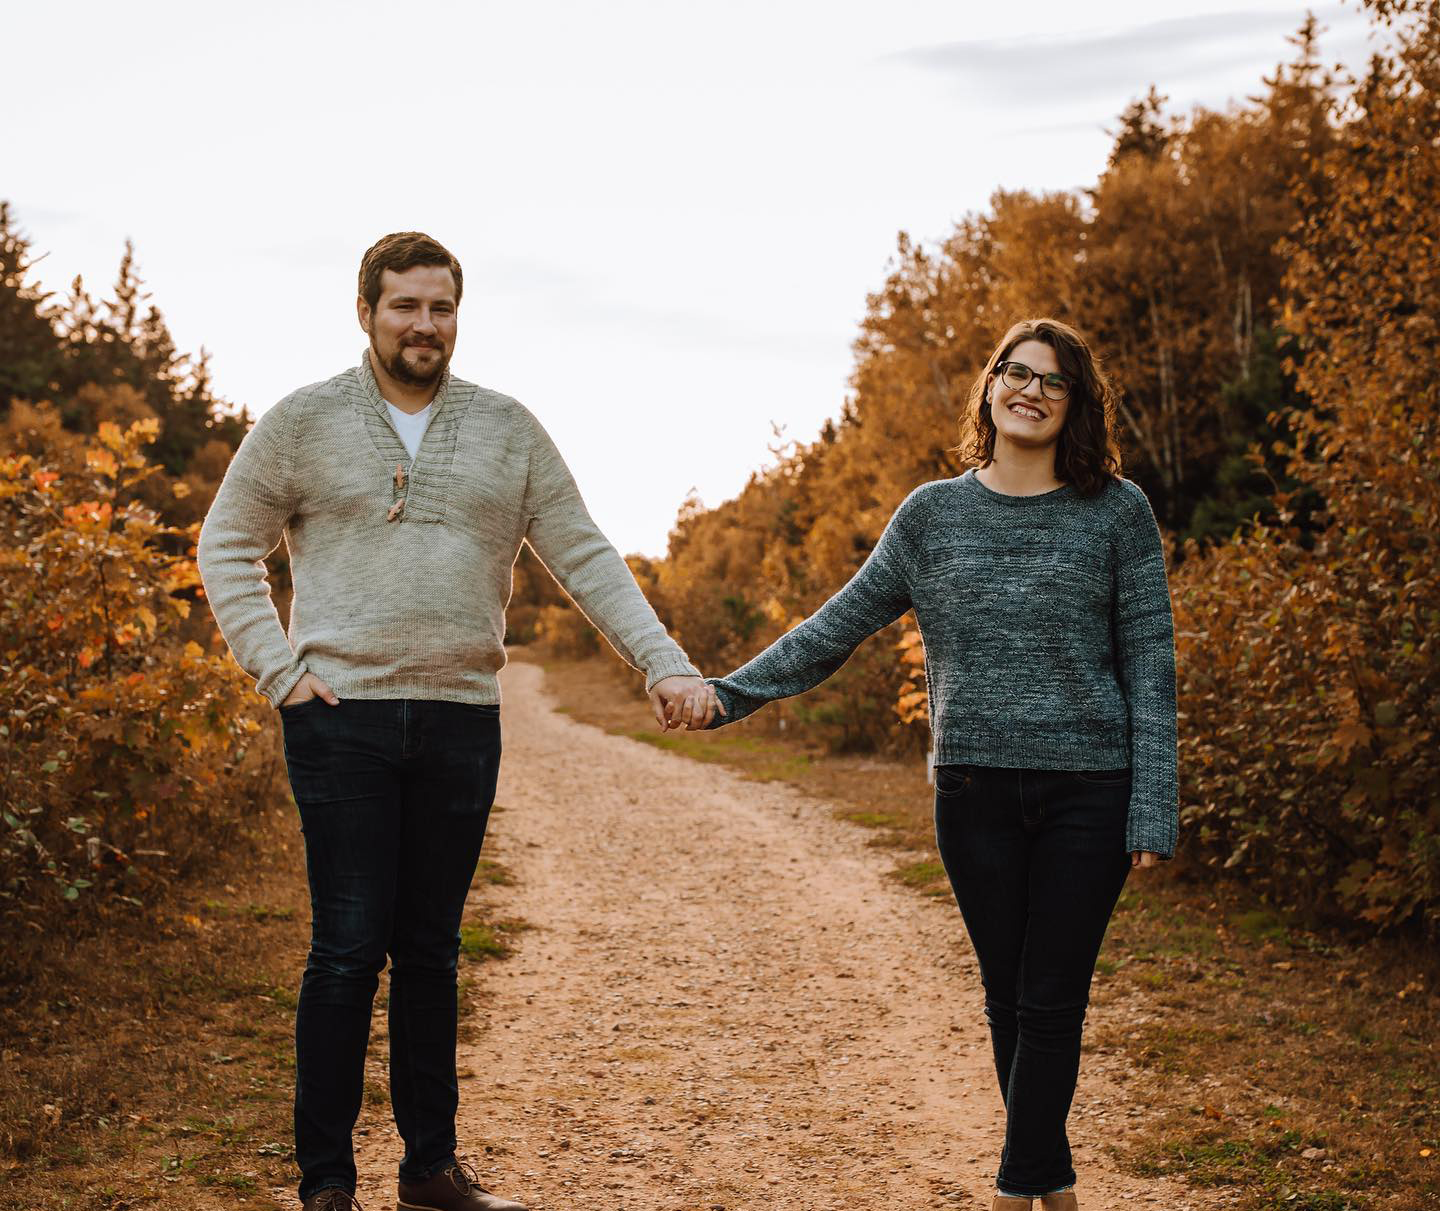
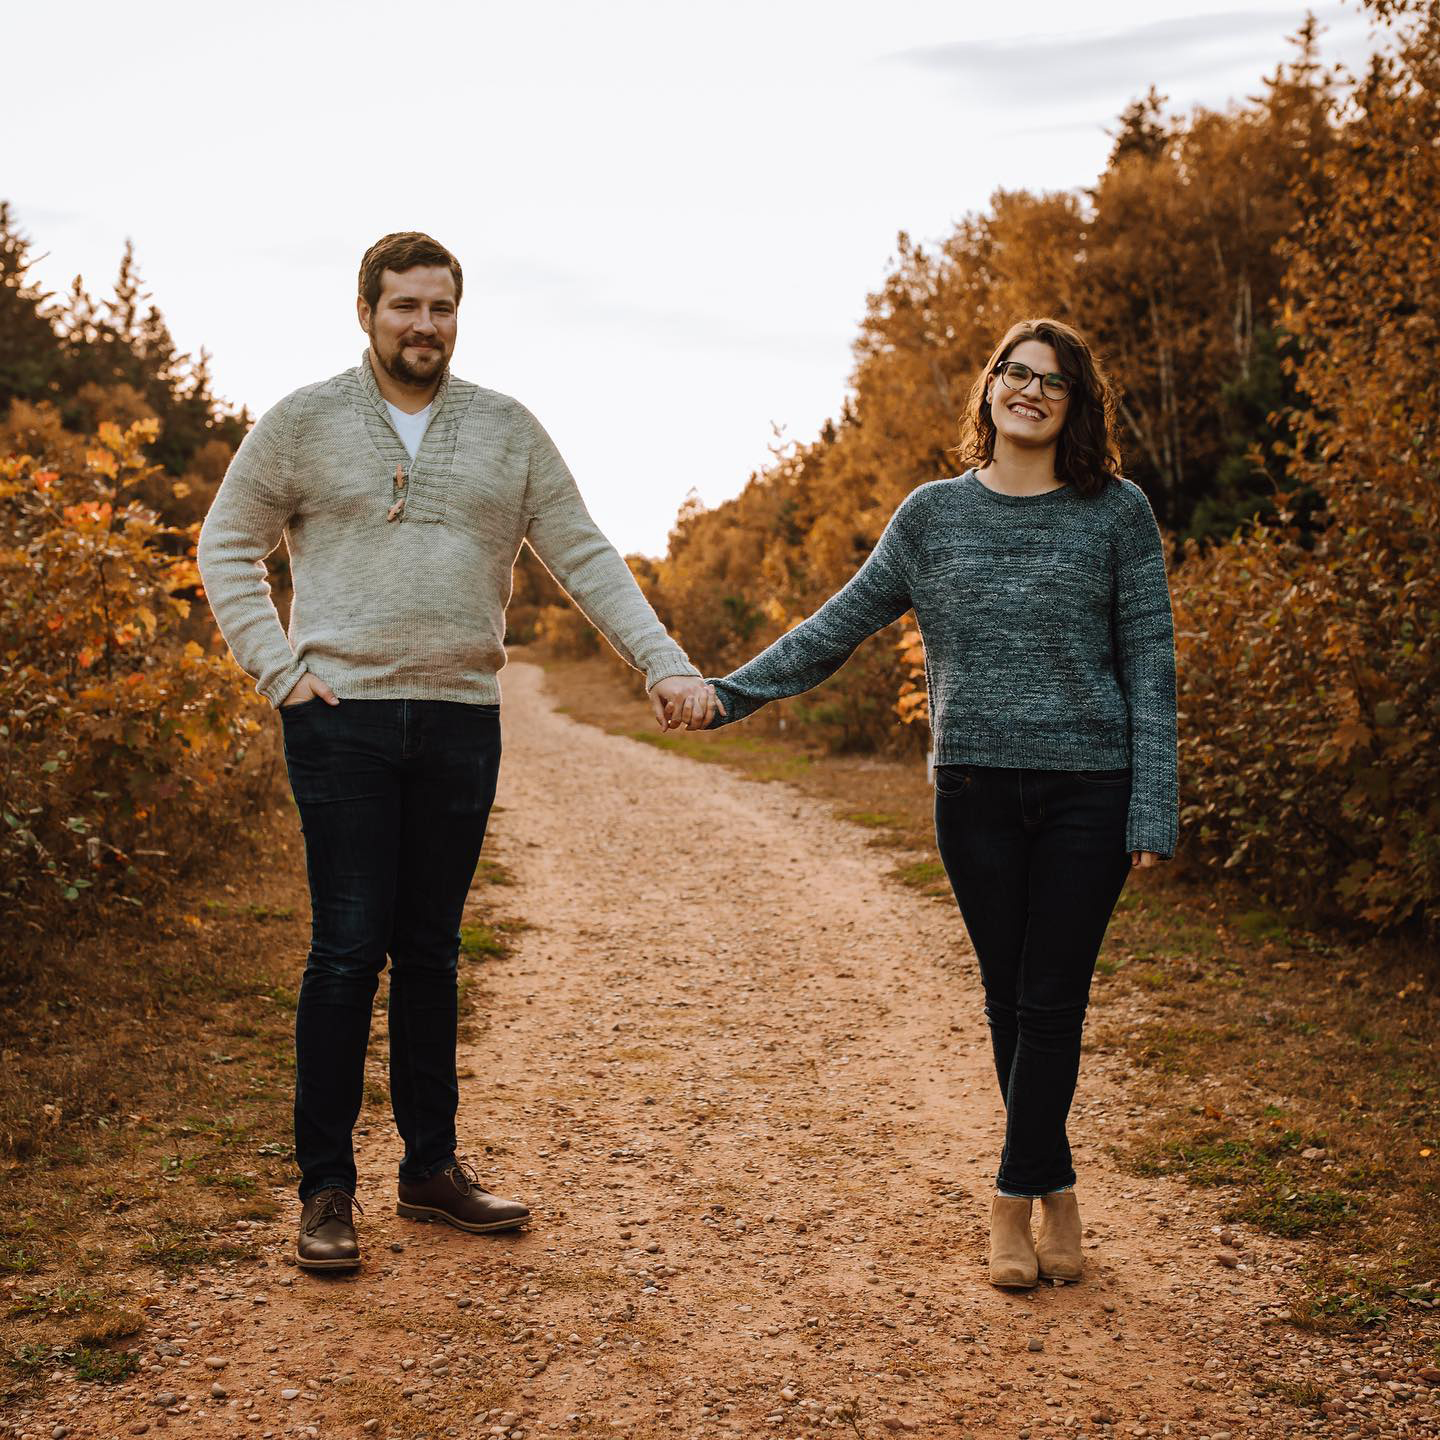
better on mobile

diff --git a/components/Hero.tsx b/components/Hero.tsx
@@ -1,7 +1,17 @@
 const Hero = () => {
   return (
     <section className="gradient-overlay gradient-overlay-dark ">
-      <img className="bg-image" src="assets/img/hero.jpg" alt="" />
+      <picture>
+        <source
+          media="(max-width: 950px)"
+          srcSet="assets/img/hero_mobile.jpg"
+        />
+        <source
+          media="(min-width: 951px)"
+          srcSet="assets/img/hero_desktop.jpg"
+        />
+        <img className="bg-image" src="assets/img/hero_desktop.jpg" alt="" />
+      </picture>
 
       <div className="container">
         <div className="row min-vh-80 align-items-center z-index-2 position-relative text-center">
